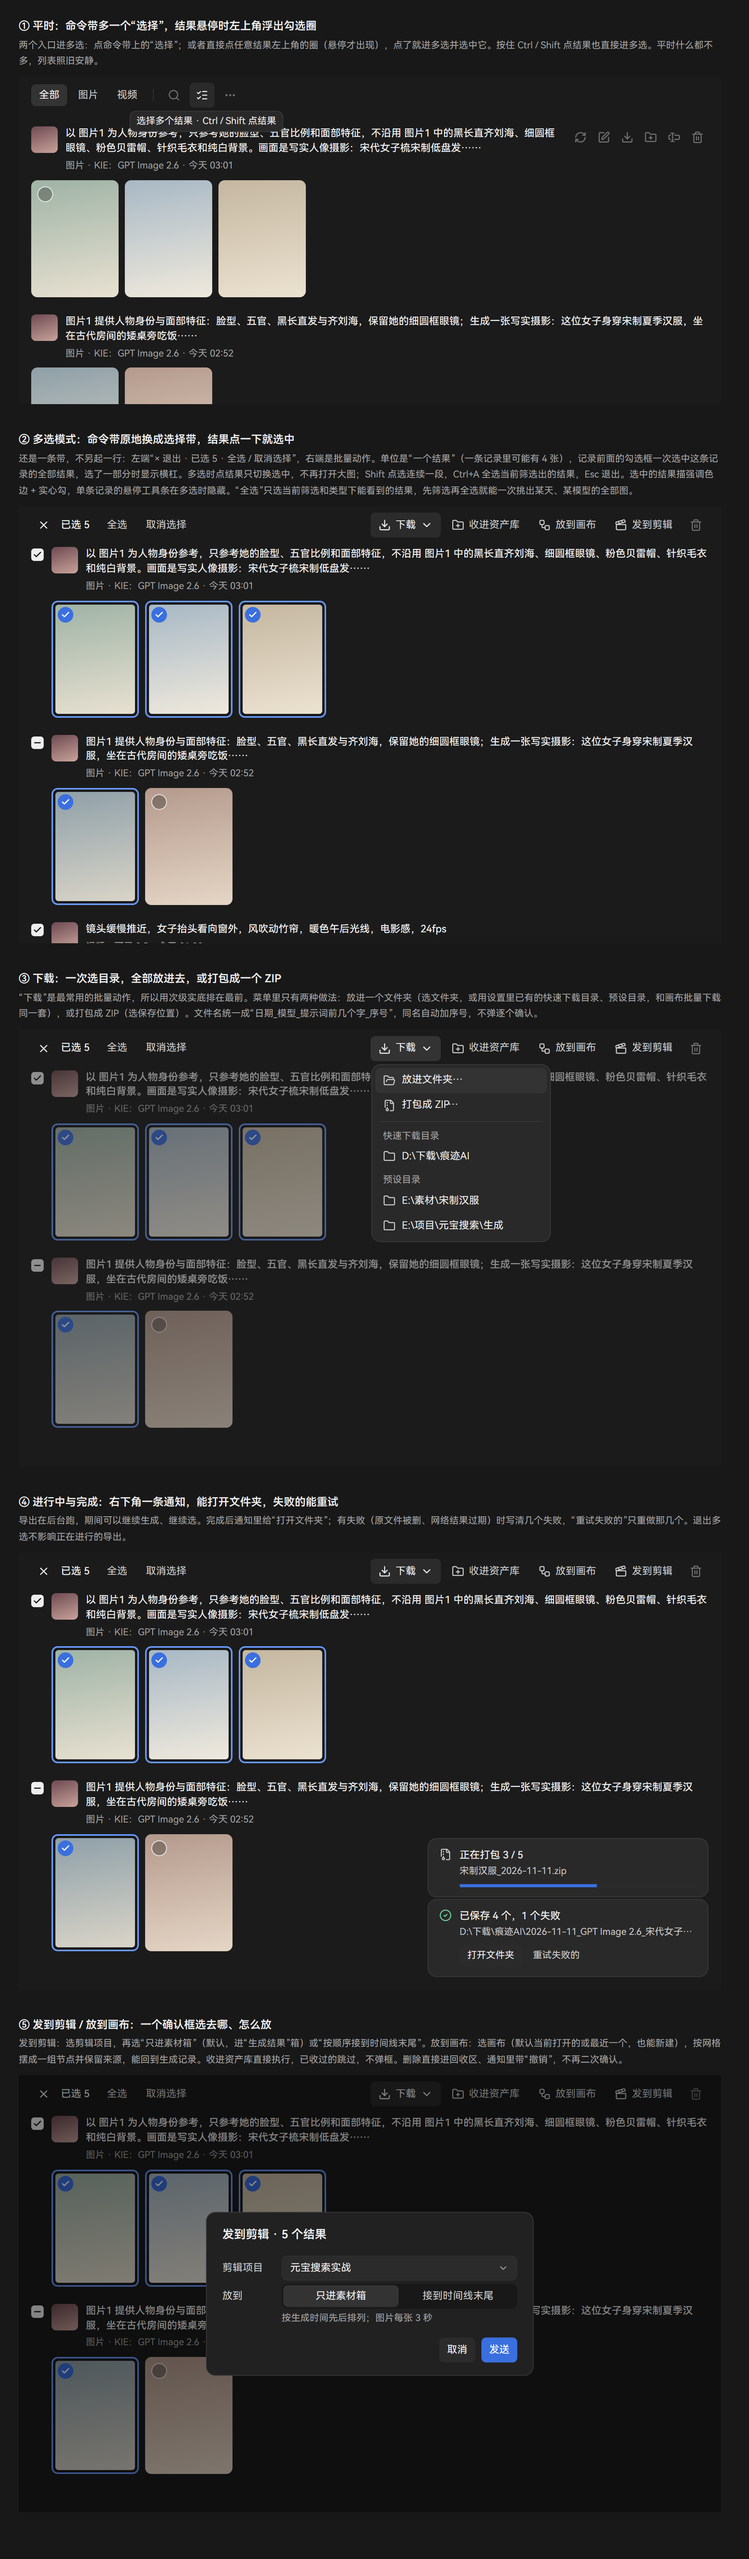
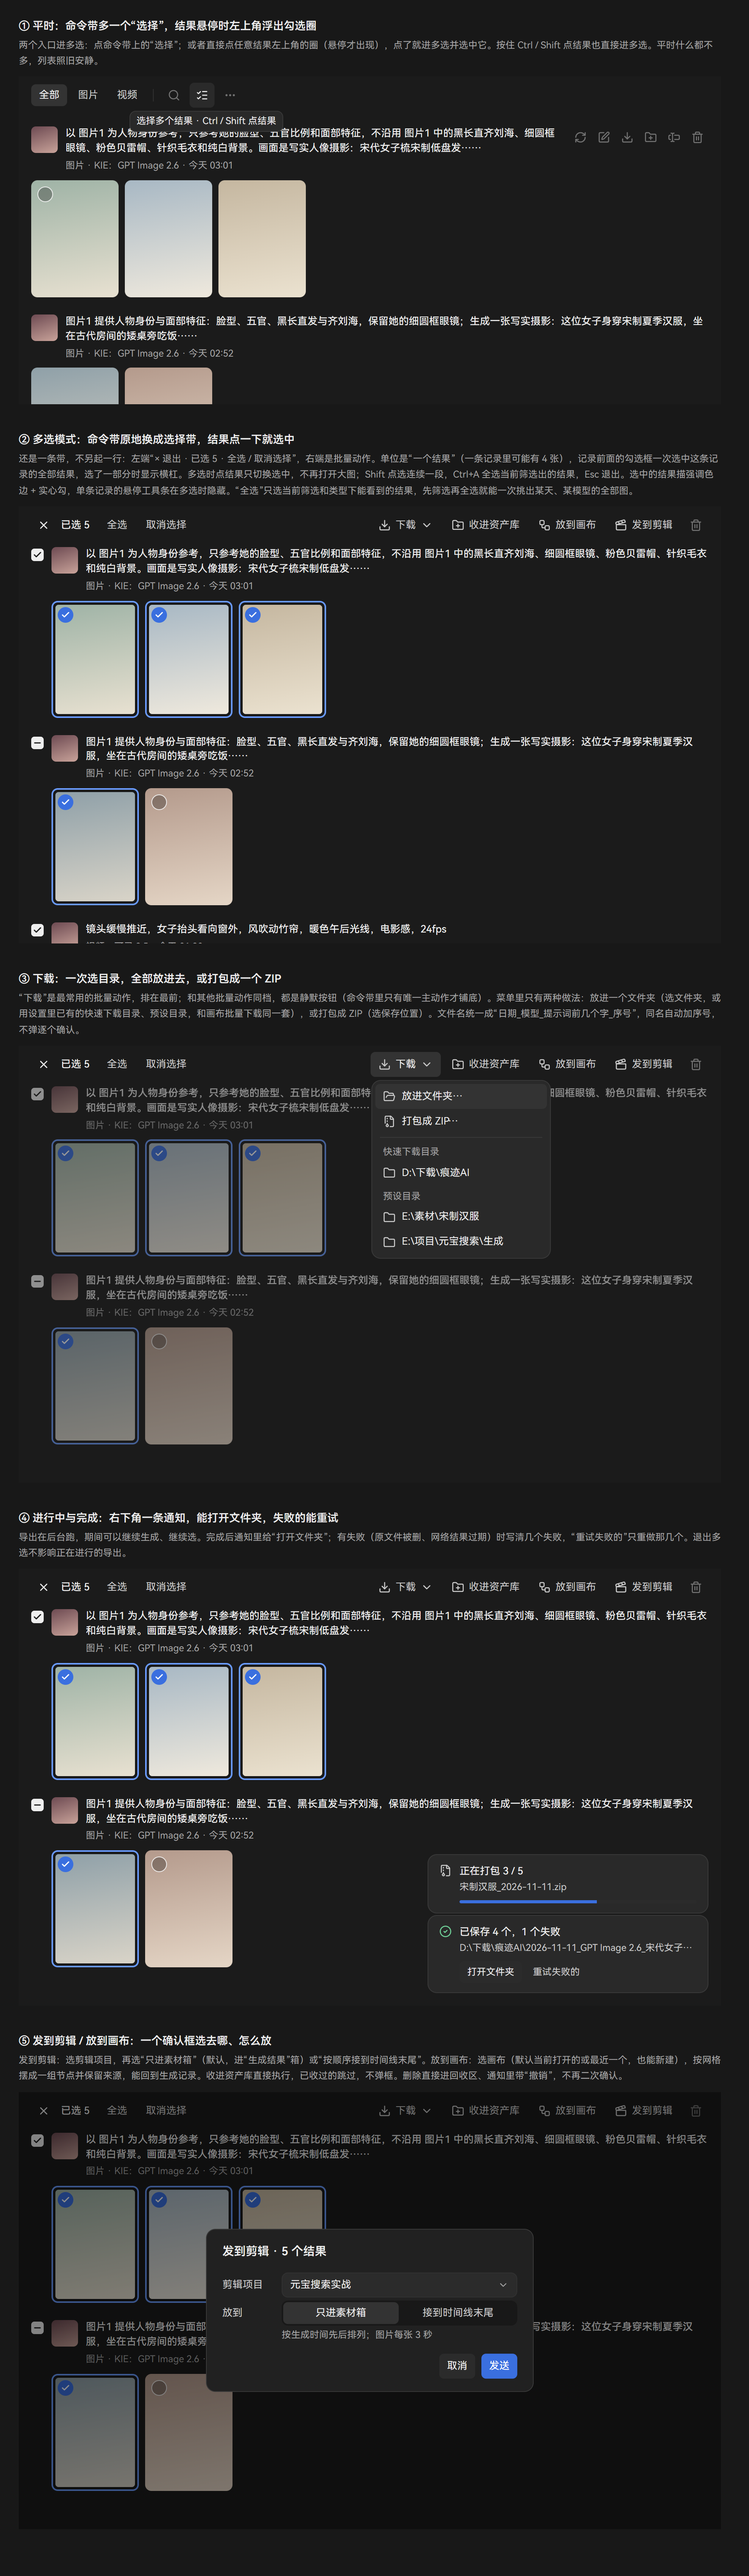
fix(generation): 多选带的“下载”与其他批量动作同档，不再单独铺底
命令带里只有这一屏唯一的主动作才铺底；下载与收进资产库、放到画布、发到剪辑同组同层级，按规则同档静默，常用靠排在第一位体现。草稿说明同步更正。

diff --git a/docs/task/界面样板屏/生成/多选草稿.html b/docs/task/界面样板屏/生成/多选草稿.html
@@ -113,7 +113,7 @@ const record = (n, results, opts = {}) => `<div class="rec"><div class="head">${
 const normalBand = (hoverSelect) => `<div class="band"><span class="tab on">全部</span><span class="tab">图片</span><span class="tab">视频</span><span class="vsep"></span><span class="icon">${i('search')}</span><span class="icon ${hoverSelect ? 'hover' : ''}">${i('list-checks')}</span><span class="icon">${i('ellipsis')}</span></div>`;
 const selBand = (count, opts = {}) => `<div class="band"><span class="icon hover" style="background:none">${i('x')}</span><span class="count">已选 ${count}</span><span class="btn">全选</span><span class="btn">${opts.none ? '' : '取消选择'}</span>
   <span class="ml"></span>
-  <span class="btn secondary ${opts.dlOpen ? 'open' : ''}">${i('download')}下载${i('chevron-down')}</span>
+  <span class="btn ${opts.dlOpen ? 'open' : ''}">${i('download')}下载${i('chevron-down')}</span>
   <span class="btn">${i('folder-plus')}收进资产库</span>
   <span class="btn">${i('workflow')}放到画布</span>
   <span class="btn">${i('clapperboard')}发到剪辑</span>
@@ -127,7 +127,7 @@ const blocks = [
     note: '还是一条带，不另起一行：左端“× 退出 · 已选 5 · 全选 / 取消选择”，右端是批量动作。单位是“一个结果”（一条记录里可能有 4 张），记录前面的勾选框一次选中这条记录的全部结果，选了一部分时显示横杠。多选时点结果只切换选中，不再打开大图；Shift 点选连续一段，Ctrl+A 全选当前筛选出的结果，Esc 退出。选中的结果描强调色边 + 实心勾，单条记录的悬停工具条在多选时隐藏。“全选”只选当前筛选和类型下能看到的结果，先筛选再全选就能一次挑出某天、某模型的全部图。',
     html: `${selBand(5)}<div class="list">${record(0, res(0, { check: true }) + res(1, { check: true }) + res(2, { check: true }), { cb: 'on' })}${record(1, res(3, { check: true }) + res(4, { check: false }), { cb: 'part' })}${record(2, res(5, { check: true, w: 200, dur: '0:05' }), { cb: 'on' })}</div>` },
   { id: 3, label: '③ 下载：一次选目录，全部放进去，或打包成一个 ZIP',
-    note: '“下载”是最常用的批量动作，所以用次级实底排在最前。菜单里只有两种做法：放进一个文件夹（选文件夹，或用设置里已有的快速下载目录、预设目录，和画布批量下载同一套），或打包成 ZIP（选保存位置）。文件名统一成“日期_模型_提示词前几个字_序号”，同名自动加序号，不弹逐个确认。',
+    note: '“下载”是最常用的批量动作，排在最前；和其他批量动作同档，都是静默按钮（命令带里只有唯一主动作才铺底）。菜单里只有两种做法：放进一个文件夹（选文件夹，或用设置里已有的快速下载目录、预设目录，和画布批量下载同一套），或打包成 ZIP（选保存位置）。文件名统一成“日期_模型_提示词前几个字_序号”，同名自动加序号，不弹逐个确认。',
     html: `${selBand(5, { dlOpen: true })}<div class="menu" style="left:452px;top:44px"><div class="mi hover">${i('folder-open')}放进文件夹…</div><div class="mi">${i('file-archive')}打包成 ZIP…</div><div class="msep"></div><div class="mh">快速下载目录</div><div class="mi">${i('folder')}D:\\下载\\痕迹AI</div><div class="mh">预设目录</div><div class="mi">${i('folder')}E:\\素材\\宋制汉服</div><div class="mi">${i('folder')}E:\\项目\\元宝搜索\\生成</div></div><div class="list" style="opacity:.55">${record(0, res(0, { check: true }) + res(1, { check: true }) + res(2, { check: true }), { cb: 'on' })}${record(1, res(3, { check: true }) + res(4, { check: false }), { cb: 'part' })}</div>` },
   { id: 4, label: '④ 进行中与完成：右下角一条通知，能打开文件夹，失败的能重试',
     note: '导出在后台跑，期间可以继续生成、继续选。完成后通知里给“打开文件夹”；有失败（原文件被删、网络结果过期）时写清几个失败，“重试失败的”只重做那几个。退出多选不影响正在进行的导出。',

diff --git a/src/workspaces/GenerationWorkspace/components/GenerationSelectionBar.tsx b/src/workspaces/GenerationWorkspace/components/GenerationSelectionBar.tsx
@@ -72,7 +72,8 @@ function MenuItem({ icon: Icon, label, title, danger, disabled, disabledReason, 
 
 /**
  * 多选时的命令带：同一条带原地换内容，不另起一行（设计稿“生成历史多选”）。
- * 左端退出与计数，右端批量动作；“下载”最常用，用次级实底排第一，其余静默，放不下从右往左收进“更多”。
+ * 左端退出与计数，右端批量动作：同一组动作同档，全部静默（命令带里只有唯一主动作才铺底）；
+ * “下载”最常用所以排第一，放不下从右往左收进“更多”。
  */
 export function GenerationSelectionBar({ count, allSelected, onExit, onSelectAll, onClear, actions }: {
   count: number
@@ -132,7 +133,7 @@ export function GenerationSelectionBar({ count, allSelected, onExit, onSelectAll
             node: (
               <PanelTrigger panelSize="menu" panelPadding="menu" closeOnPanelClick disabled={Boolean(emptyReason)} renderPanel={renderDownloadMenu}>
                 {({ open, togglePanel }) => (
-                  <UiButton variant="secondary" aria-haspopup="menu" aria-expanded={open} disabled={Boolean(emptyReason)} disabledReason={emptyReason} loading={actions.running === 'export'} onClick={togglePanel}>
+                  <UiButton aria-haspopup="menu" aria-expanded={open} disabled={Boolean(emptyReason)} disabledReason={emptyReason} loading={actions.running === 'export'} onClick={togglePanel}>
                     <ICON_DOWNLOAD />{t('ui:generationSelection.download')}<ChevronDown />
                   </UiButton>
                 )}
